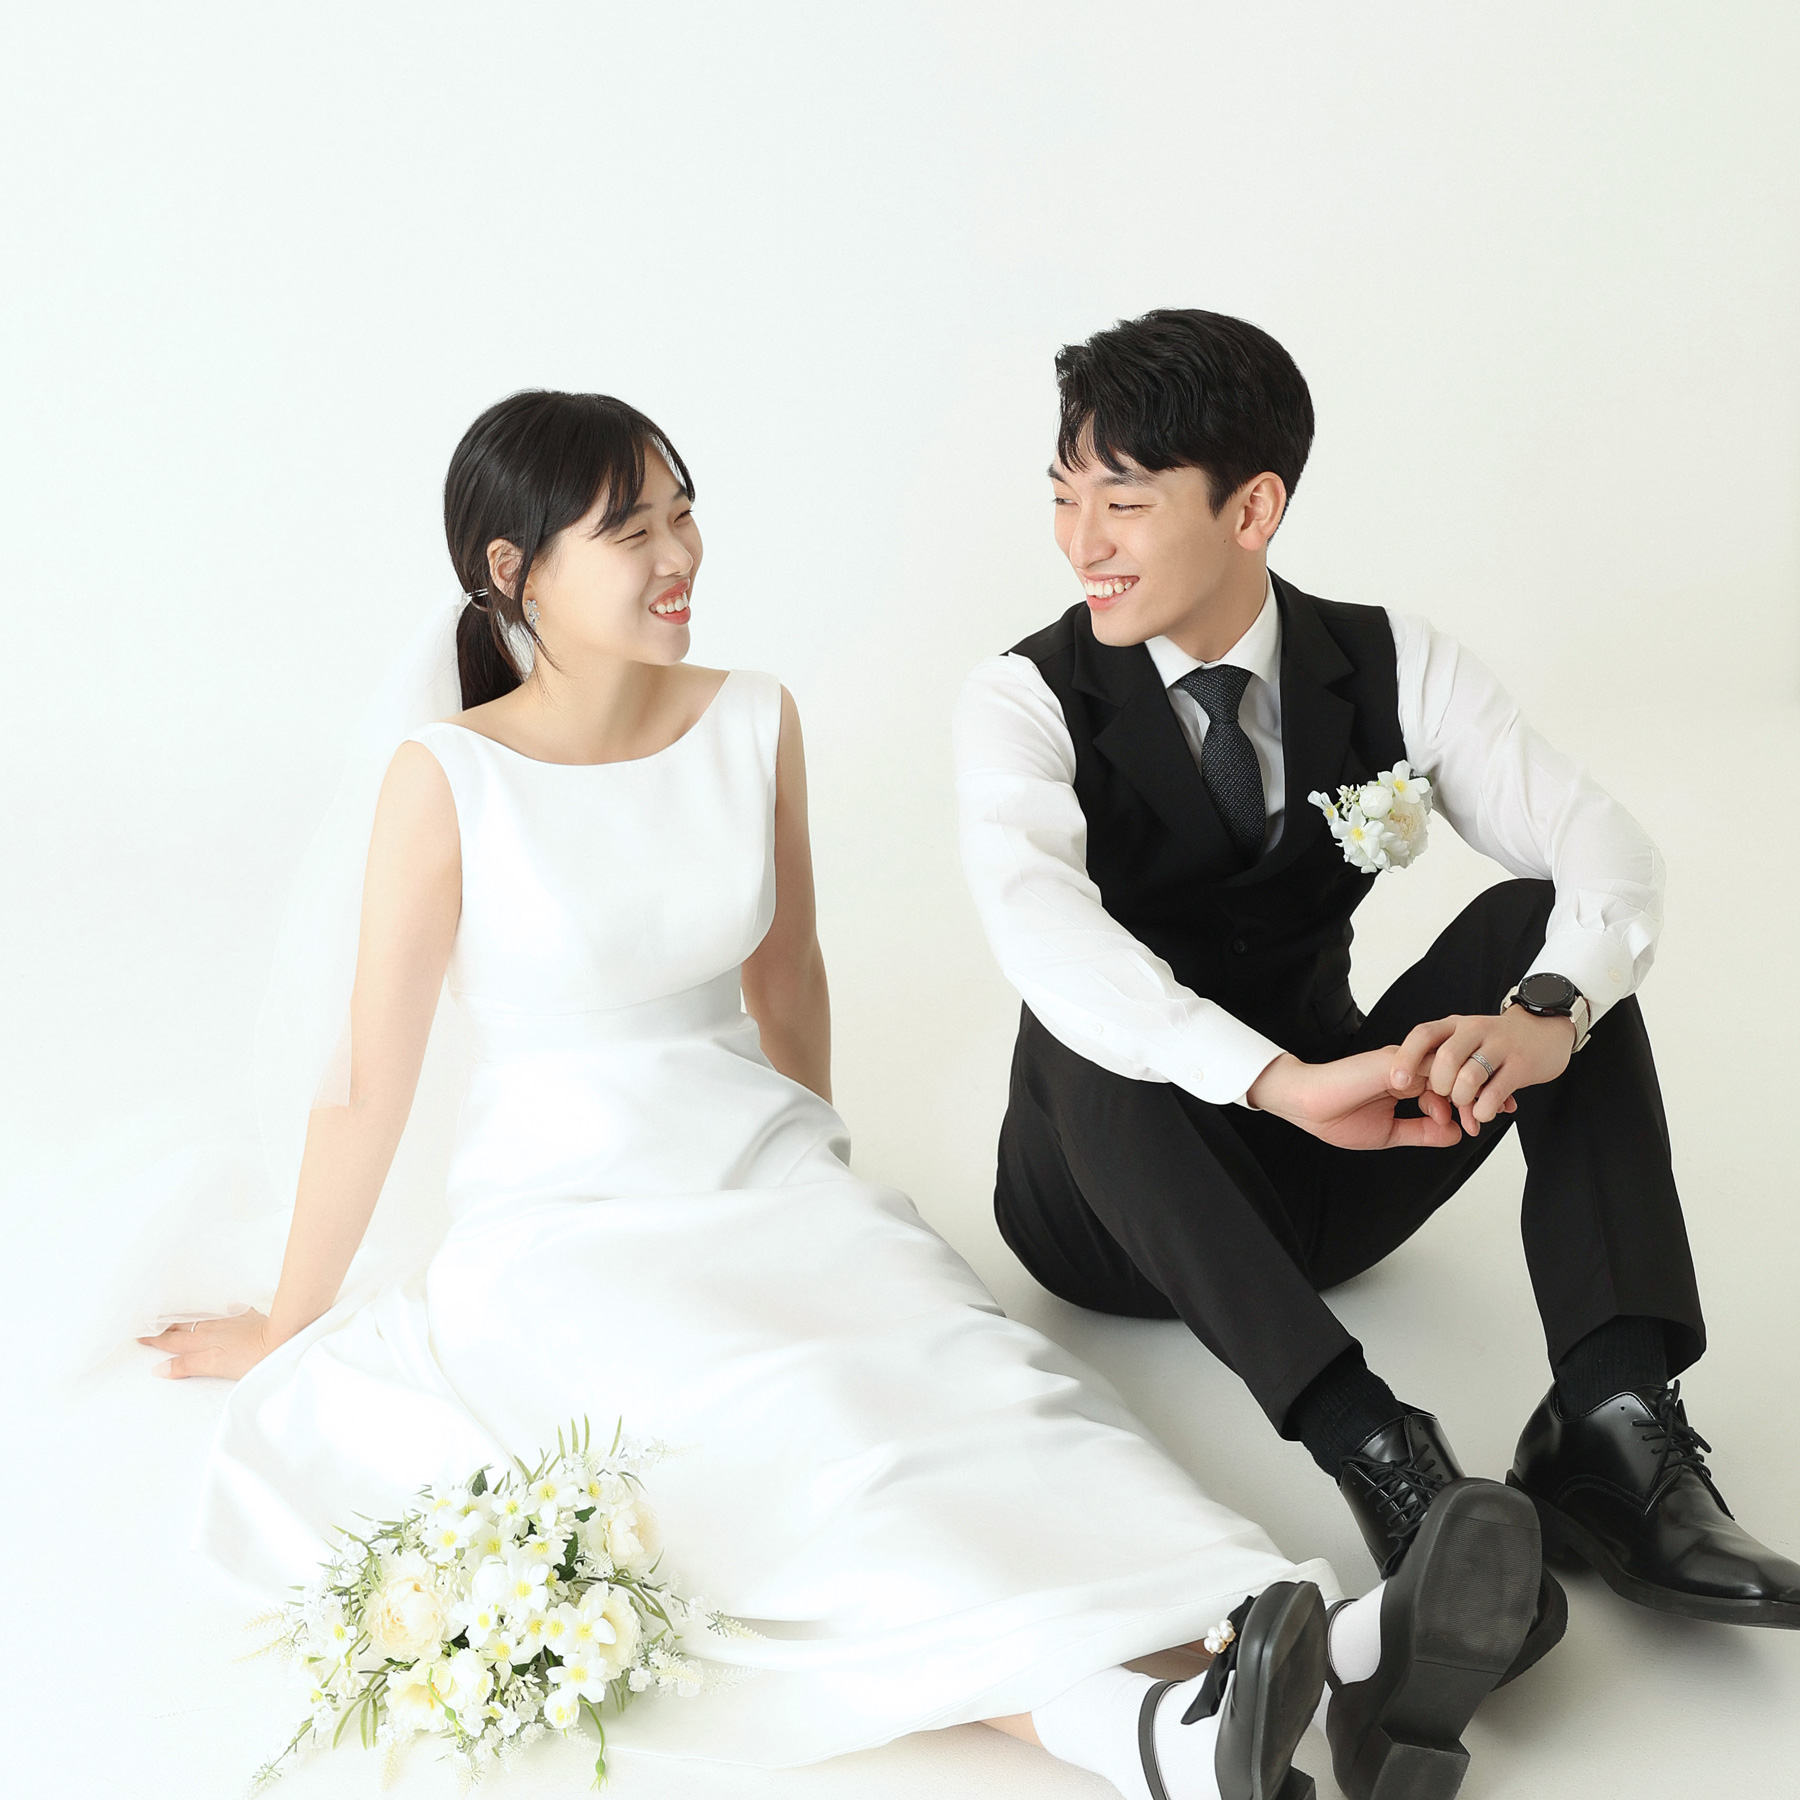
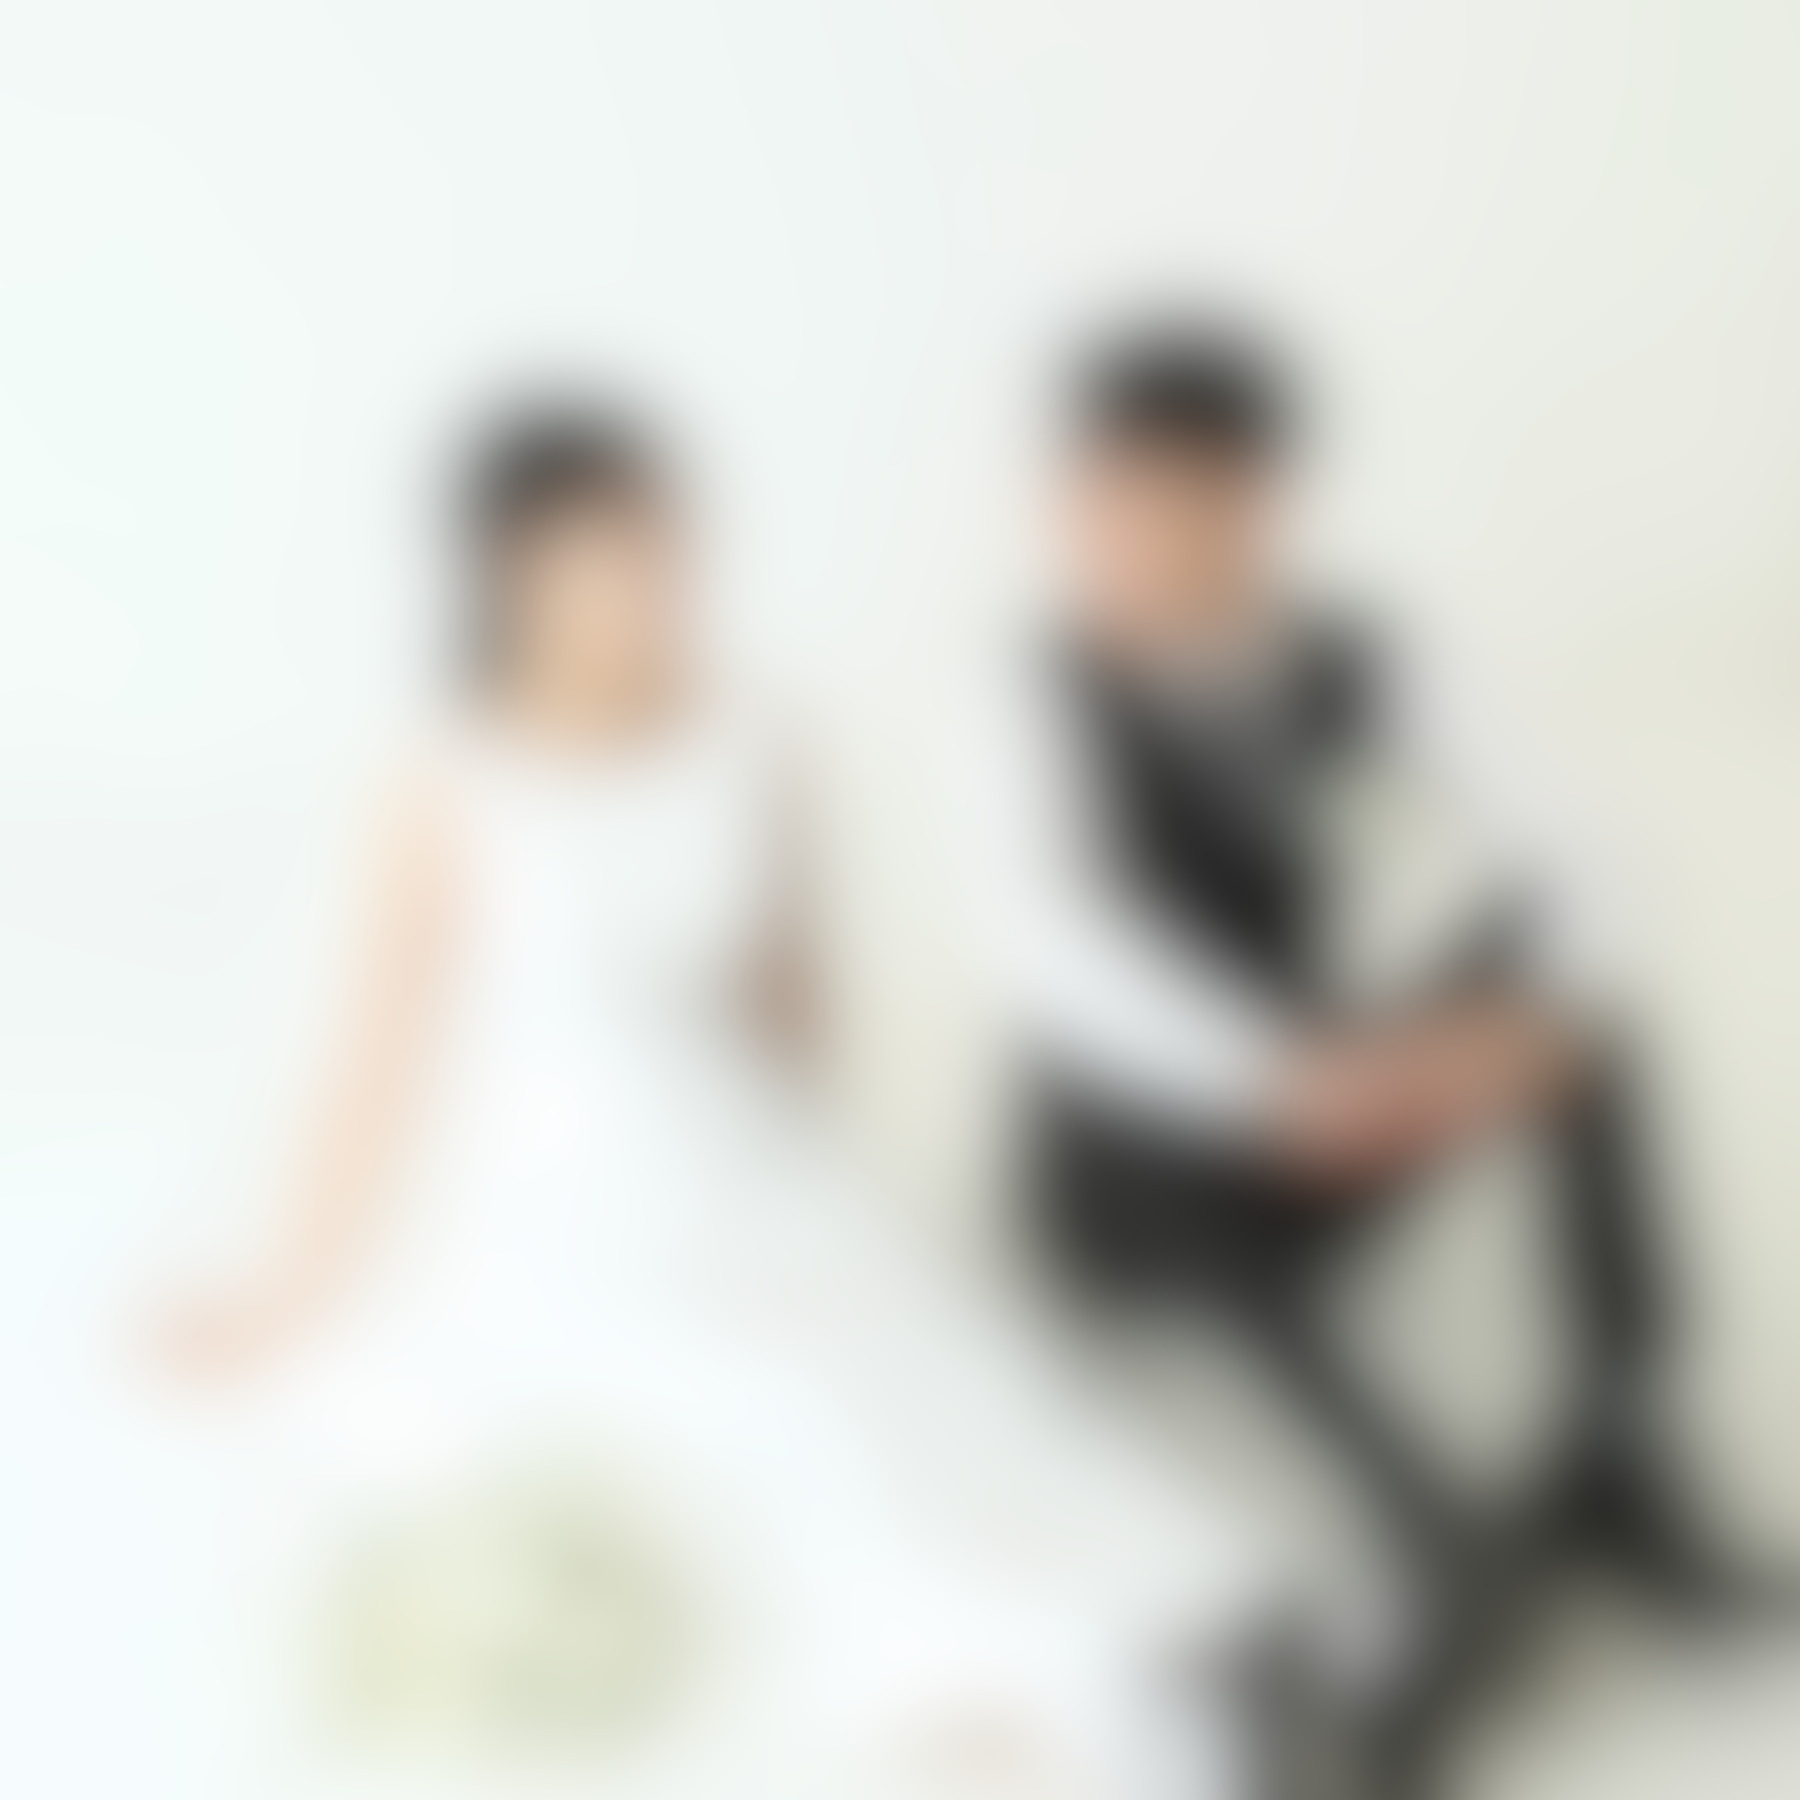
신상 미공개

diff --git a/components/WeddingLocation.vue b/components/WeddingLocation.vue
@@ -6,8 +6,8 @@
          data-aos-duration="1300" >
   <h3 class="title">결혼식 오시는 길</h3>
   <div class="location">
-    서울특별시 서대문구 연세로 50<br/>
-    <em>연세대학교 동문회관</em>
+    서울시 00구 00로 00<br/>
+    <em>어딘가 결혼식장</em>
   </div>
   <div class="map-wrapper">
     <div id="map" class="map"  />
@@ -27,34 +27,34 @@
 
 <script>
 import WayByMethod from "./location/WayByMethod.vue";
-const [lat, lng] = [37.562741, 126.942480];
+const [lat, lng] = [37.54442330360516, 127.05602731486988];
 let clientKey = '';
 const items = [
   {title: '지하철',
-    header: '<2호선 또는 3호선 -> 이대 후문 또는 이대부중 하차>',
+    header: '0 호선 또는 0 호선 -> 어딘가 하차',
   contents: [
-  '2호선 이대역 4번 출구 -> 버스 742, 7017',
-  '3호선 독립문역 4번 출구 -> 470, 601, 750A, 750B, 7737',
-  '3호선 경복궁역 1번 출구 -> 버스 272, 606']},
+  '0호선 00역 4번 출구 -> 버스 000A, 000B',
+  '0호선 00역 4번 출구 -> 버스 000C, 000D, 000E',
+  '0호선 00역 1번 출구 -> 버스 000F, 000G']},
   {title: '버스',
   contents: [
-      '간선 : 272, 470, 601, 606, 607, 672, 700, 707, 710, 750A, 750B, 742번',
-      '지선 : 6714, 7017, 7024, 7737번',
-      '광역 : M7106, M7111, M7119, M7154',
-      '직행 : G7111'
+      '간선 : 000, 001, 002, 003번',
+      '지선 : 0000, 0001, 0002, 0003번',
+      '광역 : M0001, M0002, M0003',
+      '직행 : G000'
   ]},
   {
     title: '자가용',
     contents: [
-        '내비게이션 이용 시 : “연세대학교 동문회관" 입력',
-        '연세대학교 정문 방향에서 오시는 분은 금화터널 고가도로 밑에서 유턴',
-        '동문회관 주차장 이용 : 2시간 무료 (주차할인기 사용)'
+        '내비게이션 이용 시 : “어딘가" 입력',
+        '000 방향에서 오시는 분은 000 고가도로 밑에서 좌회전',
+        '000 주차장 이용 : 2시간 무료 (주차할인기 사용)'
     ]
   },
   {title: '셔틀버스',
   contents: [
-      '이대역 3번 출구 -> 동문회관 : 12시 20분, 12시 40분',
-      '동문회관 -> 이대역 3번 출구 : 14시 10분, 14시 30분'
+      '000역 0번 출구 -> 어딘가 결혼식장 : 14시 20분, 14시 40분',
+      '어딘가 결혼식장 -> 000역 0번 출구 : 17시 10분, 17시 30분'
   ]}
 ]
 
@@ -91,7 +91,7 @@ export default {
       });
     }
     ,openMap() {
-      window.open('https://map.naver.com/p/search/%EC%97%B0%EC%84%B8%EB%8C%80%ED%95%99%EA%B5%90%20%EB%8F%99%EB%AC%B8%ED%9A%8C%EA%B4%80/place/1400823520?c=15.00,0,0,0,dh&placePath=%3Fentry%253Dbmp',
+      window.open('https://map.naver.com/p/search/%EC%84%B1%EC%88%98%EC%97%AD?c=15.00,0,0,0,dh',
       '_blank');
     }
   },

diff --git a/pages/index.vue b/pages/index.vue
@@ -24,17 +24,6 @@
       <p class="modal-content-1">결혼식에 참석해주시는<br/>
         모든 분들을 귀하게 모실 수 있도록<br/>
         참석 의사를 말씀해주세요.</p>
-<!--
-      <p class="modal-content-1">결혼식에 참석해주시는<br/>
-        모든 분들을 귀하게 모실 수 있도록<br/>
-        참석 의사를 말씀해주세요.</p>
-      <CircleDivider/>
-      <p class="modal-content-2">
-        신랑 김은택 & 신부 정윤영<br/>
-        2024년 6월 8일 토요일 오후 1시<br/>
-        연세대학교 동문회관 3층 그랜드볼룸
-      </p>
-      -->
       <button class="modal-btn"
               @click="showForm = true;">
         참석 의사 전달하기
@@ -54,12 +43,12 @@
 
 <script setup lang="ts">
 useSeoMeta({
-  title:"김은택 & 정윤영 결혼식에 초대합니다",
-  ogTitle: '2024년 6월 8일(토) 오후 1시',
-  description:"김은택 & 정윤영 결혼식에 초대합니다",
-  ogDescription: '연세대학교 동문회관 3층 그랜드볼룸',
+  title:"김00 & 정00 결혼식에 초대합니다",
+  ogTitle: '2024년 00월 00일(토) 오후 00시',
+  description:"김00 & 정00 결혼식에 초대합니다",
+  ogDescription: '결혼식장 주소',
   ogUrl: 'https://invite-to-our-wedding.com',
-  ogSiteName: '2024년 6월 8일(토) 오후 1시',
+  ogSiteName: '2024년 00월 00일(토) 오후 00시',
   ogType: 'website',
   ogImage: 'https://invite-to-our-wedding.com/og.png',
   formatDetection: 'telephone=no',
@@ -110,37 +99,6 @@ export default {
     }
     Cookie.remove('scrollEnabled');
     window.addEventListener('scroll', onScroll);
-
-
-    /*
-    let lastOffset = 0;
-    let timer: any = null;
-    let animated = false;
-    window.addEventListener('scroll', ()=>{
-      if(timer) {
-        return;
-      }
-      const vible = document.querySelector<HTMLDivElement>('#vible');
-      const whoAmI = document.querySelector<HTMLDivElement>('#who-am-i');
-
-      if(!animated) {
-        if(vible && window.scrollY<vible.offsetTop && window.scrollY>lastOffset) {
-          window.scrollTo({top: vible.offsetTop, behavior:'smooth'});
-          animated = true;
-        } else if(whoAmI&& window.scrollY<whoAmI.offsetTop && window.scrollY>lastOffset) {
-          window.scrollTo({top: whoAmI.offsetTop, behavior:'smooth'});
-          animated = true;
-        }
-      }
-      lastOffset = window.scrollY;
-      timer = setTimeout(()=>{
-        timer = null;
-        animated = false;
-      }, 400);
-    });
-
-     */
-
   },
   components: {
     DdayFooter,

diff --git a/components/SendAccount.vue b/components/SendAccount.vue
@@ -35,13 +35,13 @@ import AccountAccordion from "~/components/account/AccountAccordion.vue";
       <div class="content-wrapper">
         <div class="content-container">
           <div class="phone-content">
-            <a href="tel:01085909102">010-8590-9102</a> 로 연락해주세요.
+            <a href="tel:01012345678">010-1234-5678</a> 로 연락해주세요.
           </div>
           <AccountAccordion type="신랑"
                             :id="1"
-                            account1="카카오뱅크 3333-27-9858278"
-                            account2="농협 841-02-275843,김외진"
-                            account3="농협 841-12-418550,최영자" />
+                            account1="카카오뱅크 0000-00-000000"
+                            account2="농협 000-00-000000,김00"
+                            account3="농협 000-00-000000,최00" />
         </div>
       </div>
       <div class="phone-header">
@@ -52,13 +52,13 @@ import AccountAccordion from "~/components/account/AccountAccordion.vue";
       <div class="content-wrapper">
         <div class="content-container">
           <div class="phone-content">
-            <a href="tel:01084111858">010-8411-1858</a> 로 연락해주세요.
+            <a href="tel:01011112222">010-1111-2222</a> 로 연락해주세요.
           </div>
           <AccountAccordion type="신부"
                             :id="2"
-                            account1="카카오뱅크 3333-23-4343500"
-                            account2="기업 434-004340-01018,정해만"
-                            account3="기업 381-052787-01-016,김지영" />
+                            account1="카카오뱅크 0000-00-000000"
+                            account2="기업 000-000000-00000,정00"
+                            account3="기업 000-000000-00000,김00" />
         </div>
       </div>
     </article>

diff --git a/pages/gallery.vue b/pages/gallery.vue
@@ -5,14 +5,14 @@ import {Navigation, Pagination} from "swiper/modules";
 import Cookie from 'js-cookie';
 
 useSeoMeta({
-  title:"김은택 & 정윤영 결혼식에 초대합니다",
-  ogTitle: '김은택 & 정윤영 결혼식에 초대합니다',
-  description:"김은택 & 정윤영 결혼식에 초대합니다",
-  ogDescription: '김은택 & 정윤영 결혼식에 초대합니다',
-  ogUrl: 'https://invitation-letter-green.vercel.app',
-  ogSiteName: '김은택 & 정윤영 결혼식에 초대합니다',
+  title:"김00 & 정00 결혼식에 초대합니다",
+  ogTitle: '2024년 00월 00일(토) 오후 00시',
+  description:"김00 & 정00 결혼식에 초대합니다",
+  ogDescription: '결혼식장 주소',
+  ogUrl: 'https://invite-to-our-wedding.com',
+  ogSiteName: '2024년 00월 00일(토) 오후 00시',
   ogType: 'website',
-  ogImage: 'https://invitation-letter-green.vercel.app/introduction.png',
+  ogImage: 'https://invite-to-our-wedding.com/og.png',
   formatDetection: 'telephone=no',
   viewport: 'initial-scale=1.0; maximum-scale=1.0; minimum-scale=1.0; user-scalable=no;'
 });

diff --git a/components/WhoAmI.vue b/components/WhoAmI.vue
@@ -45,10 +45,10 @@ export default {
            class="who-am-i">
         <div class="parent">
           <p class="who">
-            <span>김외진• 최영자</span>의 차남 <span>은택</span>
+            <span>김00• 최00</span>의 차남 <span>00</span>
           </p>
           <p class="who">
-            <span>정해만• 김지영</span>의 장녀 <span>윤영</span>
+            <span>정00• 김00</span>의 장녀 <span>00</span>
           </p>
           <CircleDivider/>
         </div>
@@ -71,8 +71,8 @@ export default {
        data-aos-offset="100"
        data-aos-easing="ease-out-cubic"
        data-aos-duration="1300">
-      2024년 6월 8일 토요일 오후 1시<br/>
-      연세대학교 동문회관 3층 그랜드볼룸</p>
+      2024년 00월 00일 0요일 오후 00시<br/>
+      서울시 어딘가 결혼식장</p>
   </section>
   <SendCome :show-modal="showModal"/>
 </template>

diff --git a/components/DdayFooter.vue b/components/DdayFooter.vue
@@ -47,8 +47,8 @@ export default {
     shareLink() {
       if(window.navigator.share) {
         window.navigator.share({
-          title: '김은택 & 정윤영 결혼식에 초대합니다',
-          text: '김은택 & 정윤영 결혼식에 초대합니다',
+          title: '김00 & 정00 결혼식에 초대합니다',
+          text: '김00 & 정00 결혼식에 초대합니다',
           url: 'https://invitation-letter-green.vercel.app',
         });
       }
@@ -82,7 +82,7 @@ export default {
         주소 복사하기
       </a>
     </div>
-    <p>Copyright 2024. Yunyoung Jeong. All right reserved.</p>
+    <p>Copyright 2024. 000. All right reserved.</p>
     <p>Thanks to Hash the Deverloper.</p>
   </footer>
 </template>

diff --git a/components/SendForm.vue b/components/SendForm.vue
@@ -47,17 +47,6 @@ export default {
         window.alert('참석 인원을 입력해주세요.');
         return;
       }
-      const {error} = await supabase
-          .from('memo')
-          .insert({friend: this.friend,
-          name: this.name,
-          cnt: this.cnt,
-          meal: this.meal,
-          other: this.other});
-      if(error) {
-        console.error(error);
-        window.alert('오류가 발생하였습니다.');
-      } else {
         this.friend = FRIEND.MEN;
         this.name = '';
         this.cnt = -1;
@@ -68,7 +57,6 @@ export default {
         Cookie.set('modal', 'true', {
           expires: 1,
         });
-      }
     }
   }
 }

diff --git a/components/SendCome.vue b/components/SendCome.vue
@@ -17,7 +17,7 @@ export default {
   },
   methods: {
     updateTime() {
-      const diff = dayjs('2024-06-08 13:00').diff(dayjs(), 'minute');
+      const diff = dayjs('2024-12-31 17:00').diff(dayjs(), 'minute');
       this.day = Math.floor(diff/(60*24));
       this.hour = Math.floor(diff/60) % 24;
       this.min = diff % 60;
@@ -68,7 +68,7 @@ export default {
     </div>
     <p class="left"
        id="modal-start" >
-      은택 & 윤영의 결혼식이<br/>
+      00 & 00의 결혼식이<br/>
       {{day}}일 남았습니다.
     </p>
     <button class="btn"
